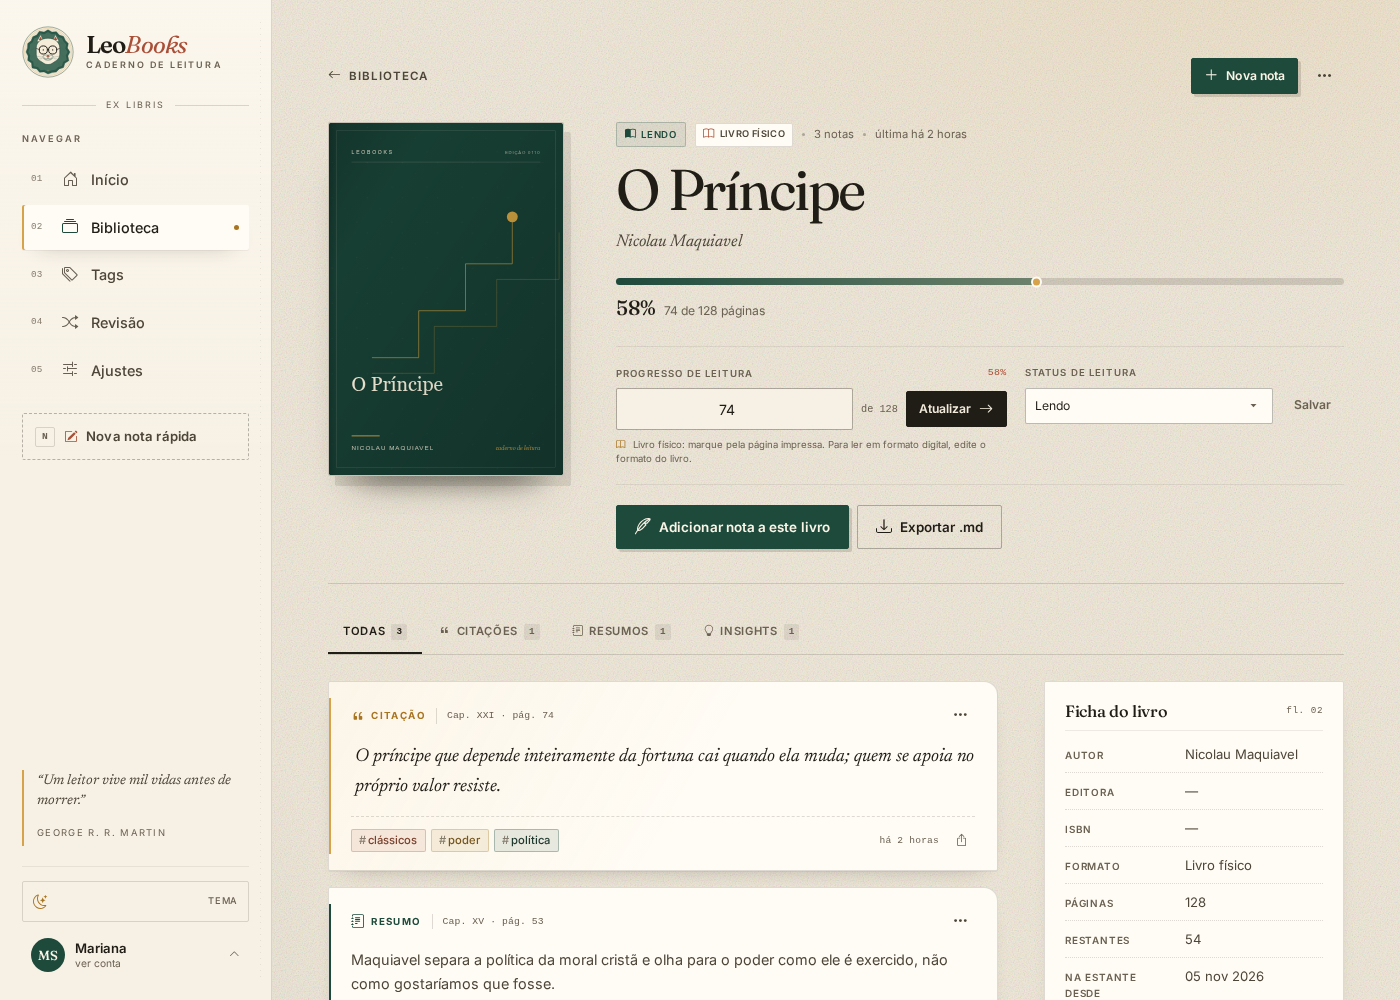
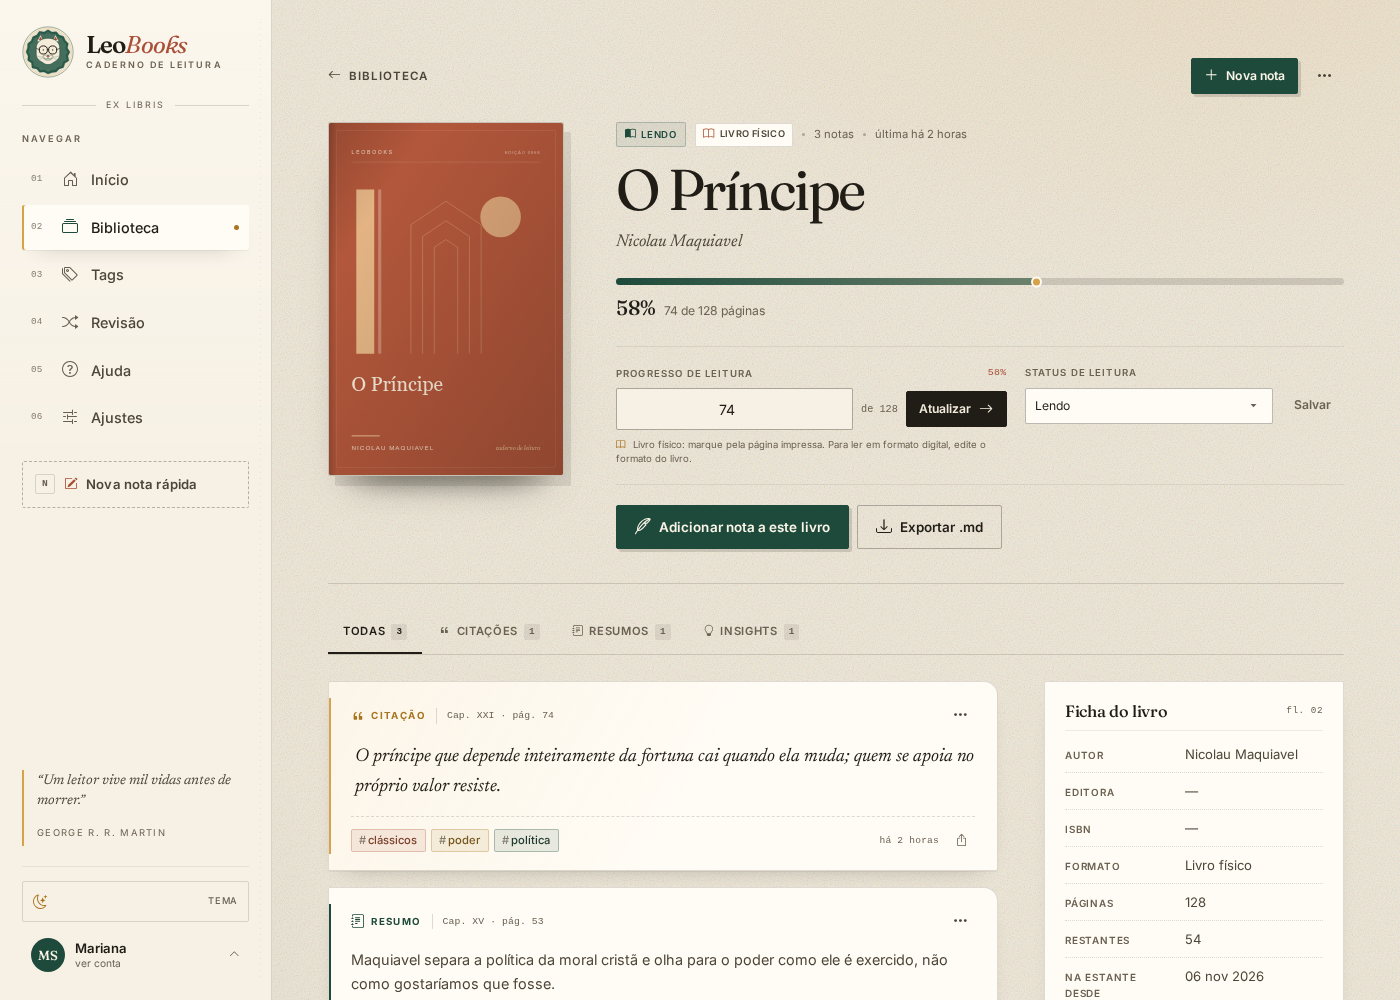
add annotation help with three methods

Changed region(s): [[0.215, 0.124, 0.3993, 0.496], [0.0307, 0.403, 0.1536, 0.496]]

diff --git a/templates/help.html b/templates/help.html
@@ -1,0 +1,98 @@
+{% extends "layout.html" %}
+{% block title %}Ajuda · LeoBooks{% endblock %}
+
+{% block content %}
+<header class="lb-pagehead">
+  <div class="lb-pagehead__main">
+    <p class="lb-eyebrow">Ajuda <span class="lb-eyebrow__dot" aria-hidden="true"></span> método de anotação</p>
+    <h1 class="lb-pagehead__title">Anotar é <em>conversar</em> com o texto.</h1>
+    <p class="lb-pagehead__deck">
+      Não é sobre escrever muito. É sobre parar no momento certo, registrar uma
+      reação e conseguir voltar a ela depois. Estes três métodos funcionam no
+      papel e dentro do LeoBooks.
+    </p>
+  </div>
+  <button type="button" class="lb-btn lb-btn--primary" data-note-open data-note-type="QUOTE">
+    <i class="bi bi-feather"></i> Nova nota
+  </button>
+</header>
+
+<div class="lb-settings__content">
+  <section class="lb-setting-card" id="simbolos">
+    <header class="lb-setting-card__head">
+      <span class="lb-setting-card__num">01</span>
+      <div>
+        <h2>Três símbolos</h2>
+        <p>Para marcar durante a leitura sem interromper o ritmo.</p>
+      </div>
+    </header>
+    <p>Use poucos sinais no papel ou no digital. Eles são um lembrete para a
+      conversa que você terá depois com o texto.</p>
+    <div class="d-flex flex-column gap-2 mb-3">
+      <p class="mb-0"><span class="lb-kbd">*</span> <strong>Importante:</strong>
+        uma ideia que mudou algo na sua leitura.</p>
+      <p class="mb-0"><span class="lb-kbd">?</span> <strong>Dúvida:</strong>
+        algo que você quer investigar, comparar ou reler.</p>
+      <p class="mb-0"><span class="lb-kbd">R</span> <strong>Releitura:</strong>
+        um trecho que merece voltar, pela beleza ou pela dificuldade.</p>
+    </div>
+    <p class="lb-hint">
+      No LeoBooks, transforme cada marca em uma nota curta. Uma frase já basta;
+      o importante é registrar a sua reação, não copiar a página inteira.
+    </p>
+  </section>
+
+  <section class="lb-setting-card" id="notas">
+    <header class="lb-setting-card__head">
+      <span class="lb-setting-card__num">02</span>
+      <div>
+        <h2>Três notas</h2>
+        <p>Para dar uma forma diferente a cada tipo de pensamento.</p>
+      </div>
+    </header>
+    <p class="mb-2"><i class="bi bi-quote"></i> <strong>Citação:</strong>
+      o trecho exato que você quer guardar, com capítulo e página.</p>
+    <p class="mb-2"><i class="bi bi-journal-text"></i> <strong>Resumo:</strong>
+      a ideia do capítulo com as suas palavras. Se não conseguir reformular,
+      talvez ainda não tenha entendido — e tudo bem voltar.</p>
+    <p class="mb-3"><i class="bi bi-lightbulb"></i> <strong>Insight:</strong>
+      uma conexão com outro livro, uma aula, uma pergunta ou uma discordância.</p>
+    <p class="lb-hint">
+      Evite sublinhar tudo. Destaque só o que gerou surpresa, dúvida ou
+      discordância; depois, escolha uma das três notas para elaborar.
+    </p>
+  </section>
+
+  <section class="lb-setting-card" id="tempos">
+    <header class="lb-setting-card__head">
+      <span class="lb-setting-card__num">03</span>
+      <div>
+        <h2>Três tempos</h2>
+        <p>Para a anotação não virar um arquivo esquecido.</p>
+      </div>
+    </header>
+    <p class="mb-2"><strong>Durante:</strong> marque o que provoca reação.
+      Não pare a leitura para escrever um texto longo.</p>
+    <p class="mb-2"><strong>No fim do capítulo:</strong> transforme as marcas em
+      uma citação, um resumo ou um insight. É aqui que a leitura vira caderno.</p>
+    <p class="mb-3"><strong>Depois:</strong> use a <strong>Revisão</strong> e as
+      tags para reencontrar o que ficou. Reler uma nota vale mais do que
+      acumular cinquenta sublinhados.</p>
+    <div class="d-flex flex-wrap gap-2">
+      <a class="lb-btn lb-btn--ghost lb-btn--sm" href="{{ url_for('main.review') }}">
+        <i class="bi bi-shuffle"></i> Revisar citações
+      </a>
+      <a class="lb-btn lb-btn--ghost lb-btn--sm" href="{{ url_for('main.library') }}">
+        <i class="bi bi-collection"></i> Voltar à estante
+      </a>
+    </div>
+  </section>
+
+  <p class="lb-hint">
+    Inspirado em
+    <a href="https://consciencialiteraria.com/anotacoes-durante-leitura/"
+       target="_blank" rel="noopener noreferrer">“Anotações durante a Leitura:
+       Guia Prático”</a>, adaptado ao caderno do LeoBooks.
+  </p>
+</div>
+{% endblock %}

diff --git a/templates/partials/_sidebar.html b/templates/partials/_sidebar.html
@@ -43,9 +43,16 @@
       <span class="lb-nav__text">Revisão</span>
     </a>
 
+    <a class="lb-nav__link {{ 'is-active' if request.endpoint == 'main.help_page' }}"
+       {% if request.endpoint == 'main.help_page' %}aria-current="page"{% endif %} href="{{ url_for('main.help_page') }}">
+      <span class="lb-nav__num">05</span>
+      <i class="bi bi-question-circle"></i>
+      <span class="lb-nav__text">Ajuda</span>
+    </a>
+
     <a class="lb-nav__link {{ 'is-active' if request.endpoint and request.endpoint.startswith('settings.') }}"
        {% if request.endpoint and request.endpoint.startswith('settings.') %}aria-current="page"{% endif %} href="{{ url_for('settings.index') }}">
-      <span class="lb-nav__num">05</span>
+      <span class="lb-nav__num">06</span>
       <i class="bi bi-sliders2"></i>
       <span class="lb-nav__text">Ajustes</span>
     </a>
@@ -86,6 +93,11 @@
           <span>{{ current_user.email }}</span>
         </li>
         <li><hr class="dropdown-divider"></li>
+        <li>
+          <a class="dropdown-item" href="{{ url_for('main.help_page') }}">
+            <i class="bi bi-question-circle"></i> Ajuda e método de anotação
+          </a>
+        </li>
         <li>
           <a class="dropdown-item" href="{{ url_for('settings.index') }}">
             <i class="bi bi-sliders2"></i> Ajustes da conta

diff --git a/templates/settings.html b/templates/settings.html
@@ -21,6 +21,7 @@
 <div class="lb-settings">
   <nav class="lb-settings__nav" aria-label="Seções dos ajustes">
     <span class="lb-sidebar__label">Nesta página</span>
+    <a href="{{ url_for('main.help_page') }}"><i class="bi bi-question-circle"></i> Método de anotação</a>
     <a href="#aparencia">Aparência</a>
     <a href="#perfil">Perfil</a>
     <a href="#seguranca">Segurança</a>

diff --git a/tests/test_pages.py b/tests/test_pages.py
@@ -22,6 +22,7 @@ def test_authenticated_pages_render(auth_client, book):
         "/tags": "fios",
         "/review": "Releia o que você",
         "/settings": "Dados e backup",
+        "/help": "Três símbolos",
         "/books/new": "Coloque um livro",
         f"/books/{book['id']}": "O Poder do Hábito",
         "/search?q=grande": "A <strong>grande</strong> ideia",
@@ -125,3 +126,11 @@ def test_static_assets_are_cacheable(client):
     response = client.get("/static/css/style.css")
     assert response.status_code == 200
     assert "max-age=3600" in response.headers["Cache-Control"]
+
+
+def test_help_page_explains_three_methods(auth_client):
+    page = auth_client.get("/help").get_data(as_text=True)
+    assert "Três símbolos" in page
+    assert "Três notas" in page
+    assert "Três tempos" in page
+    assert 'href="/help"' in auth_client.get("/").get_data(as_text=True)

diff --git a/scripts/generate_screenshots.py b/scripts/generate_screenshots.py
@@ -280,6 +280,10 @@ def main() -> None:
         login(page)
         shot(page, "inicio")
 
+        page.goto(f"{BASE}/help", wait_until="networkidle")
+        page.wait_for_timeout(400)
+        shot(page, "ajuda")
+
         page.goto(f"{BASE}/library", wait_until="networkidle")
         page.wait_for_timeout(500)
         shot(page, "biblioteca")

diff --git a/routes.py b/routes.py
@@ -1874,6 +1874,13 @@ def export_book(book_id: str):
     )
 
 
+@main_bp.route("/help")
+@login_required
+def help_page():
+    """Guia curto de método de anotação para o leitor."""
+    return render_template("help.html")
+
+
 @main_bp.route("/healthz")
 def healthz():
     return Response("ok", mimetype="text/plain")

diff --git a/README.md b/README.md
@@ -247,6 +247,15 @@ continua anexada normalmente.
 
 ![Modal de nova nota com editor Markdown](docs/screenshots/nota.webp)
 
+![Página de ajuda com três métodos de anotação](docs/screenshots/ajuda.webp)
+
+Em **Ajuda**, o LeoBooks reúne três métodos curtos:
+
+- **Três símbolos:** marcar importância, dúvida e releitura sem interromper a leitura.
+- **Três notas:** transformar as marcas em citação, resumo ou insight.
+- **Três tempos:** capturar durante, sintetizar no fim do capítulo e revisar depois.
+
+
 ### 3. Acompanhe seu ritmo
 
 Cada formato tem sua mecânica:
@@ -496,7 +505,7 @@ LEOBOOKS_IMAGE_TAG=1.0.8 docker compose push
 .venv/bin/pytest -q
 ```
 
-Estado atual: **111 testes passando** — rotas, CSRF, isolamento entre contas,
+Estado atual: **112 testes passando** — rotas, CSRF, isolamento entre contas,
 sanitização de Markdown, uploads, busca de capas, backup, tutorial, cache,
 ordenação por uso e exclusão de conta.
 

diff --git a/CHANGELOG.md b/CHANGELOG.md
@@ -2,6 +2,10 @@
 
 ## Não lançado
 
+- Adicionada a página **Ajuda**, com três métodos de anotação: três símbolos,
+  três notas e três tempos.
+- Ajuda acessível pelo menu lateral, pelo menu da conta e pelos Ajustes.
+
 - Sugestões de tags existentes no modal de nota, ordenadas por uso e filtradas
   enquanto o usuário digita.
 - Unicidade case-insensitive de tags (`Humano`/`humano`), com migração que une

diff --git a/AGENTS.md b/AGENTS.md
@@ -55,7 +55,7 @@ ser validada **localmente e no Docker** antes de ser considerada concluída.
 .venv/bin/pytest -q
 ```
 
-A suíte atual tem **111 testes**. Não considere a mudança pronta se houver
+A suíte atual tem **112 testes**. Não considere a mudança pronta se houver
 falhas.
 
 **Além dos testes, suba o próprio projeto e veja a mudança acontecendo.** Use uma
